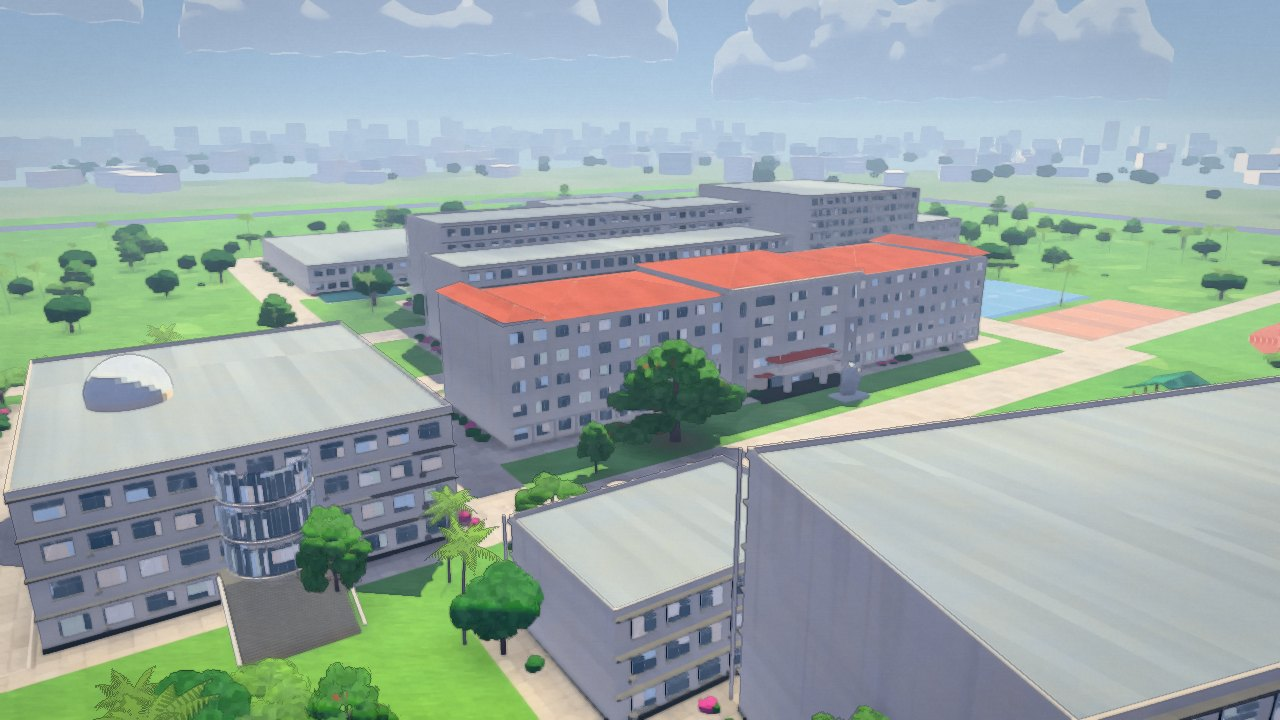
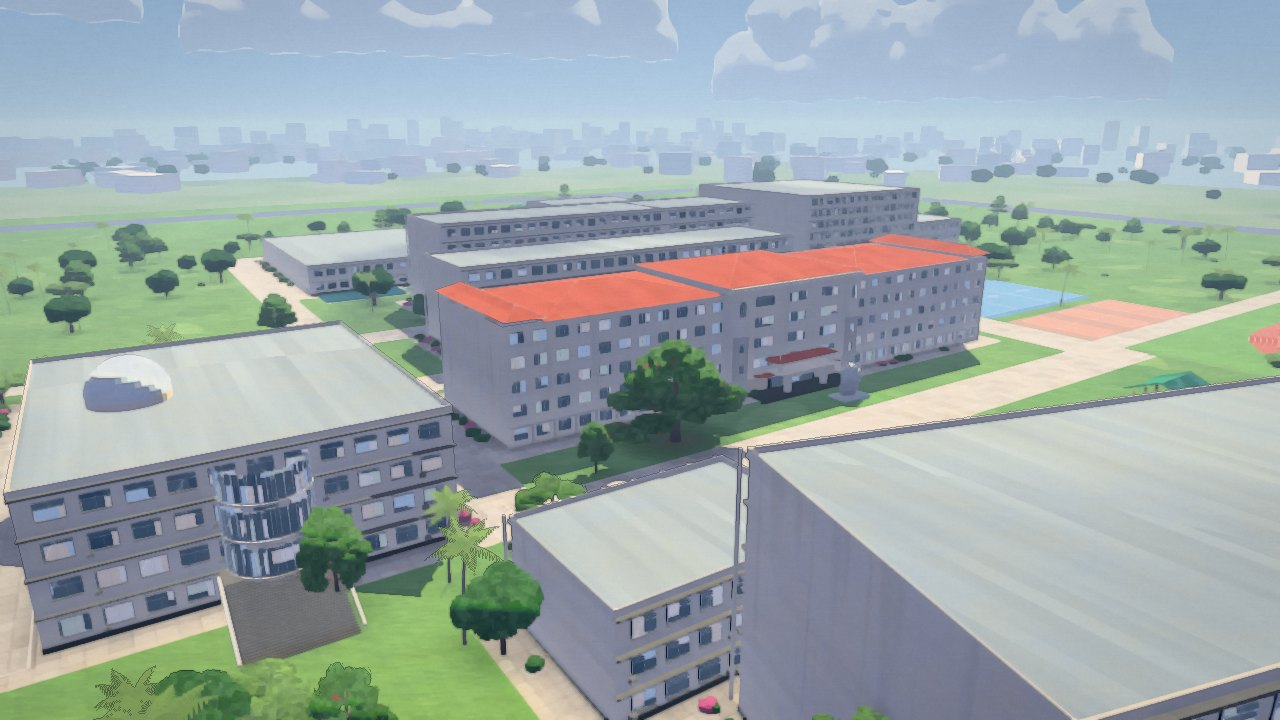
feat(painted-lab): vegetation tone (lawn mask aware) and near-only fold lines after visual review; refresh shots
Claude-Session: https://claude.ai/code/session_01KSor8YJEwgLp8VjaDdDrbq

diff --git a/lanren/painted-lab/material.js b/lanren/painted-lab/material.js
@@ -30,7 +30,7 @@ export const LABM = {
 };
 
 const HEAD = /* glsl */`
-uniform vec4 uLabMat; uniform float uBrushPx; uniform vec3 uLabFamily; uniform float uLabLight;
+uniform vec4 uLabMat; uniform float uBrushPx; uniform vec3 uLabFamily; uniform float uLabLight; uniform float uLabVeg;
 // anisotropic stroke noise: long along u, narrow across v; each stroke row is offset and slightly
 // tilted so the marks don't line up into a grid
 float labStroke(vec2 p) {
@@ -64,6 +64,17 @@ if (uLabLight > 0.001) {
   vec3 shadeSide = mix(outCol, v0 * uShadeHue * 1.4, 0.16);
   vec3 lc = mix(shadeSide, lightSide, ll);
   lc *= v0 / max(dot(lc, vec3(0.3, 0.59, 0.11)), 1e-4);
+  // vegetation: the V2 greens are close to pure; a painter mixes them down so the lawn and the
+  // crowns sit behind the architecture — less chroma, olive in the light, a little lower in value
+  float labVeg = uLabVeg;
+#ifdef LAB_LAWN
+  labVeg = lawn;   // the ground's own lawn mask (lanren/ruhua-stroll/ground.js)
+#endif
+  if (labVeg > 0.01) {
+    float vv = dot(lc, vec3(0.3, 0.59, 0.11));
+    vec3 veg = mix(vec3(vv), lc, 0.74) * mix(vec3(1.0), vec3(1.04, 1.0, 0.86), ll) * mix(1.0, 0.9, ll);
+    lc = mix(lc, veg, labVeg);
+  }
   outCol = mix(outCol, lc, uLabLight * step(0.01, uLabFamily.x));
 }
 if (uLabMat.w > 0.5) {
@@ -119,13 +130,14 @@ export function pairMaterials(root) {
       families[m.name || '?'] = f;
       const n = celLike(m, {
         key: 'lab1',
-        uniforms: { ...LABM, uLabFamily: { value: new THREE.Vector3(...f) } },
+        uniforms: { ...LABM, uLabFamily: { value: new THREE.Vector3(...f) }, uLabVeg: { value: /grass|blade|leaf|crown|foliage|canopy|palm|shrub|lanshu|banyan|kapok|flora|lawn/i.test(m.name || '') ? 1 : 0 } },
         fragment: { head: HEAD, after: AFTER },
       });
       // celLike keeps the program hooks; copy the material state cel() does not carry
       n.transparent = m.transparent; n.depthWrite = m.depthWrite; n.alphaTest = m.alphaTest; n.side = m.side;
       n.polygonOffset = m.polygonOffset; n.polygonOffsetFactor = m.polygonOffsetFactor; n.polygonOffsetUnits = m.polygonOffsetUnits;
       if (m.alphaToCoverage) n.alphaToCoverage = true;
+      if (m.name === 'ground') n.defines = { ...(n.defines || {}), LAB_LAWN: '' };
       lab.set(m, n);
     }
     return lab.get(m);

diff --git a/lanren/painted-lab/passes.js b/lanren/painted-lab/passes.js
@@ -270,7 +270,8 @@ void main() {
     // and leaf cards standing a hand's width in front of each other don't draw
     float jump = log(far / d) * smoothstep(0.6, 2.0, (far - d) / max(1.0, d * 0.12));
     float crease = (abs(1.0 / dl + 1.0 / dr - 2.0 / d) + abs(1.0 / du + 1.0 / dd - 2.0 / d)) * d; // a fold (1/z is linear on a plane)
-    float line = smoothstep(0.06, 0.22, jump) + smoothstep(0.012, 0.04, crease) * 0.55;
+    // folds only near: at a distance, slatted roofs and window grids would turn into stripes and moiré
+    float line = smoothstep(0.06, 0.22, jump) + smoothstep(0.012, 0.04, crease) * 0.55 * (1.0 - smoothstep(8.0, 22.0, d));
     // the ground plane keeps soft edges (kerbs, paving, the lawn): painters leave the floor to tone
     vec4 vp = uProjInv * vec4(vUv * 2.0 - 1.0, texture2D(tDepth, vUv).x * 2.0 - 1.0, 1.0);
     vec3 wp = (uViewInv * vec4(vp.xyz / vp.w, 1.0)).xyz;

diff --git a/docs/painted-lab/README.md b/docs/painted-lab/README.md
@@ -41,10 +41,11 @@ http://localhost:8765/painted-lab.html
 | 材质 | 笔触 brush | 墙上是一层层横向铺的颜色，近看不糊、远看不碎 | 沿表面切线的各向异性笔触噪声，两个八度按 log₂(距离) 交叉淡入，使笔触在屏幕上保持大致固定的宽度；受光处厚、阴影处薄；远处交给空气 |
 | 材质 | 碎色 broken | 一面墙的颜色从来不是一种调好的颜色 | 较慢的第二个场在固有色周围冷暖交替，明度不变 |
 | 光 | 光色 light | 热带的光是暖的，阴影是有颜色的，而不是更暗的灰 | 受光侧乘上太阳颜色的色相（傍晚自然更暖），阴影侧向当时的阴影色相靠拢；两侧都按原明度归一；玻璃不参与 |
+| 光 | 植被色（光色的一部分） | V2 的绿接近纯色，草地和树冠会抢走建筑 | 草、树叶和地面的草坪（用地面自己的草坪遮罩）降低色度约四分之一，受光处偏橄榄色、明度降低一成，让建筑成为画面主体（来自 PR 审查意见） |
 | 光 | 遮蔽色 wash | 凹处用罩染：先变色，再稍微变暗；不画黑边 | 深度缓冲上的 12 样本遮蔽（半分辨率 + 深度感知模糊）；在 Neutral 曲线前把颜色推向阴影色相再轻压暗；只作用于环境光（亮部不罩），并随距离淡出 |
 | 空间 | 空间层次 planes | 远景没有近景的深色；近景色度最高 | 以「画面主体」（环绕相机的目标点）距离为基准分近、中、远三层：远层明度向天色收拢，近层色度略升。基准随取景变化，所以鸟瞰和平视都成立 |
 | 画面 | 油彩 paint | 笔触顺着形，近处保留细节，远处概括成形 | 各向异性 Kuwahara（Kyprianidis 等 2009；多项式扇区权重 2011）：结构张量 → 高斯平滑 → 8 扇区滤波。笔触半径随「概括程度」从约 3.2 CSS px 增到 6 px。该层以封顶的像素密度运行（高档 1.5、中档 1.0、低档 0.85 设备像素/CSS 像素），线和纸仍在全分辨率 |
-| 画面 | 线 ink | 有色的线，不是黑线；近重远轻；只画在物体的近侧 | 深度跳变（剪影，需同时满足相对与绝对的米数，草叶和叶片之间不出线）+ 1/z 二阶差（折线）；离地 0.45 m 以下不画（地面交给色调）；颜色 = 当地颜色 × 阴影色相 |
+| 画面 | 线 ink | 有色的线，不是黑线；近重远轻；只画在物体的近侧 | 折线只在 8–22 m 以内画（远处的格栅屋顶和窗格否则会出现条纹与摩尔纹）；深度跳变（剪影，需同时满足相对与绝对的米数，草叶和叶片之间不出线）+ 1/z 二阶差（折线）；离地 0.45 m 以下不画（地面交给色调）；颜色 = 当地颜色 × 阴影色相 |
 | 画面 | 纸 paper | 固定在画面上的纸纹；颜料在暗部沉积、在色块交界处聚集 | 屏幕空间纸纹（不随相机游动），按明度加权；色块交界处轻压暗 |
 
 ## 观察点
@@ -126,6 +127,10 @@ http://localhost:8765/painted-lab.html
 3. 由人对五个观察点做成对比较或盲评，判断「傍晚偏浓」「远处窗格被概括」「树冠局部过暗」。平均像素差只能证明「有变化、无破图、全关可回到原画」，不能证明画面更好。
 
 这三项在本线程的云端容器里都无法完成。
+
+## 审查意见中不属于画面层的问题
+
+PR 审查（静帧）指出：榄仁树冠是重复的团块，缺少低分叉和粗枝；教学楼窗格与墙体有规则的复制感；凤栖亭的格栅屋顶容易产生条纹；草地和天空占画面比例太大。这些问题来自几何、树形与构图，不应该让后期画面层去掩盖。建议把「真实空间轮廓 / 植被造型 / 镜头构图」和「绘画式材质与画面层」分成两条独立的验收线。本实验只负责后一条，**不代表画风升级已经完成**。
 
 ## 已知局限与取舍
 
